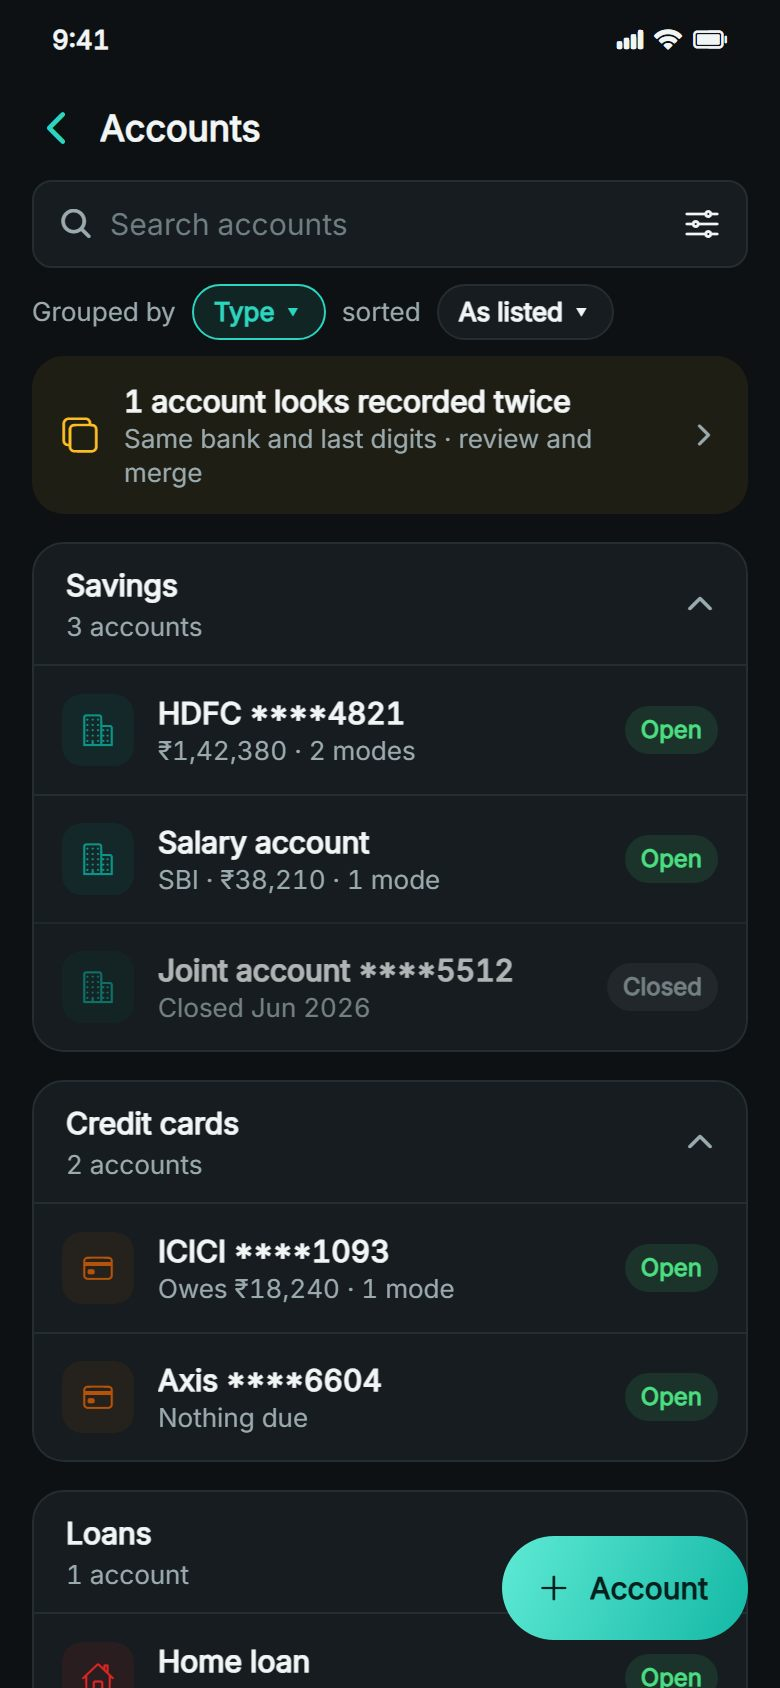
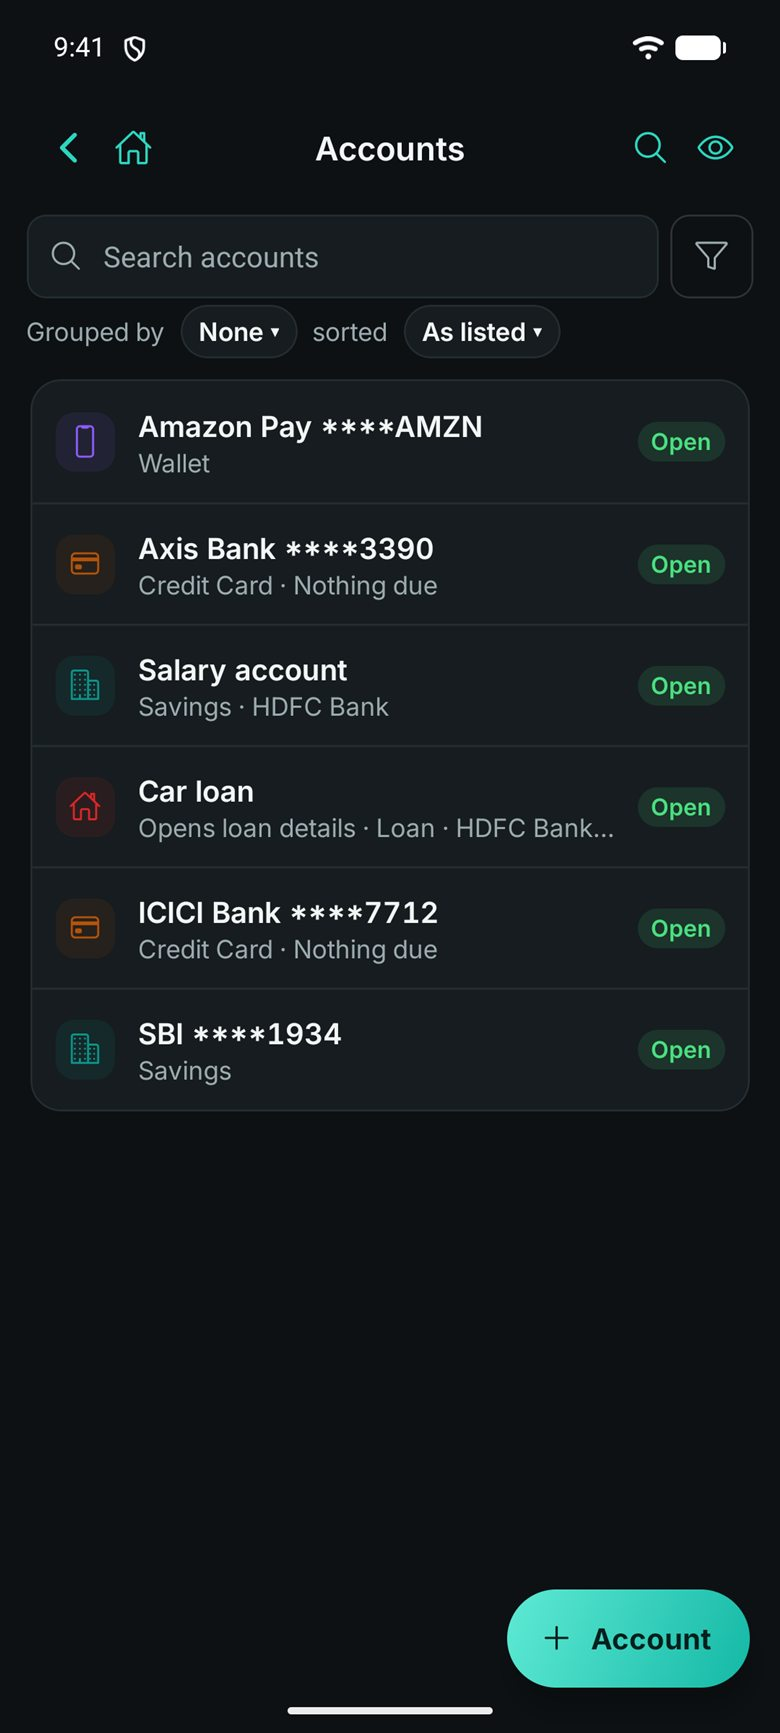
feat(site): real app screenshots from the demo build on the emulator
Budget on Features and the 4.52 gallery (transactions, ledger, accounts, categories) now show real
screens with the fictional sample data. Net worth and Vault go back to their mockups: the sample
data has no Vault and a negative net worth.

diff --git a/docs/features.html b/docs/features.html
@@ -202,7 +202,7 @@
     </div>
     <div class="grp-ph reveal">
       <div class="phone" role="img" aria-label="Budget: what's left to spend this month, how it splits between EMIs, unavoidable and discretionary, and a This month sum that adds up">
-        <div class="phone-scr"><img class="p-shot" src="/img/screens/budget.jpg" alt="" loading="lazy" decoding="async" width="780" height="1688"></div>
+        <div class="phone-scr"><img class="p-shot" src="/img/screens/budget.jpg" alt="" loading="lazy" decoding="async" width="780" height="1733"></div>
       </div>
     </div>
   </div>
@@ -226,8 +226,34 @@
       </div>
     </div>
     <div class="grp-ph reveal">
-      <div class="phone" role="img" aria-label="Net worth over the financial year: what you own and what you owe, each with its share">
-        <div class="phone-scr"><img class="p-shot" src="/img/screens/net-worth.jpg" alt="" loading="lazy" decoding="async" width="780" height="1688"></div>
+      <div class="phone" role="img" aria-label="Balance sheet with a net worth line chart rising over the financial year">
+        <div class="phone-scr">
+          <div class="pscr on">
+            <div class="p-stat"><span>10:24</span><span class="p-stat-i"><svg viewBox="0 0 17 12" fill="currentColor"><rect y="8.5" width="3" height="3.5" rx=".7"/><rect x="4.7" y="6" width="3" height="6" rx=".7"/><rect x="9.4" y="3" width="3" height="9" rx=".7"/><rect x="14" width="3" height="12" rx=".7"/></svg><svg viewBox="0 0 16 12" fill="none" stroke="currentColor" stroke-width="1.7" stroke-linecap="round"><path d="M1.2 4.4a10.2 10.2 0 0113.6 0"/><path d="M3.9 7.2a6.2 6.2 0 018.2 0"/><circle cx="8" cy="10.2" r=".95" fill="currentColor" stroke="none"/></svg><svg viewBox="0 0 25 12" fill="none"><rect x=".7" y=".7" width="21" height="10.6" rx="3.2" stroke="currentColor" stroke-width="1.3" opacity=".55"/><rect x="2.5" y="2.5" width="14" height="7" rx="1.8" fill="currentColor"/><path d="M23.4 4.3v3.4" stroke="currentColor" stroke-width="1.7" stroke-linecap="round" opacity=".55"/></svg></span></div>
+            <div class="p-hdr"><div style="flex:1"><div class="p-hdr-t">Balance Sheet</div><div class="p-hdr-s">Net worth</div></div></div>
+            <div class="p-body">
+              <div class="p-card">
+                <div class="p-lbl">Net worth · today</div>
+                <div class="p-big p-grn" style="margin-top:.2em">₹38,42,600</div>
+              </div>
+              <div class="p-card">
+                <div class="p-lbl">Net worth over time</div>
+                <div class="p-grn" style="font-weight:700;margin-top:.3em">▲ ₹3.2L <span class="p-mut" style="font-weight:400">since 1 Apr</span></div>
+                <div class="p-pills" style="padding:.6em 0 .2em"><span class="p-pill on">This FY</span><span class="p-pill">1Y</span><span class="p-pill">3Y</span><span class="p-pill">All</span></div>
+                <svg viewBox="0 0 200 70" style="width:100%;height:auto;display:block;margin-top:.3em" aria-hidden="true">
+                  <defs><linearGradient id="nwg" x1="0" y1="0" x2="0" y2="1"><stop offset="0" stop-color="#34D399" stop-opacity=".3"/><stop offset="1" stop-color="#34D399" stop-opacity="0"/></linearGradient></defs>
+                  <path d="M4 58 L32 52 L60 54 L88 41 L116 36 L144 30 L172 21 L196 12 L196 70 L4 70Z" fill="url(#nwg)"/>
+                  <path d="M4 58 L32 52 L60 54 L88 41 L116 36 L144 30 L172 21 L196 12" fill="none" stroke="#34D399" stroke-width="2.4" stroke-linejoin="round" stroke-linecap="round"/>
+                  <circle cx="196" cy="12" r="3.4" fill="#34D399"/>
+                </svg>
+                <div class="p-hr"></div>
+                <div class="p-r p-sm"><span class="p-mut">Saved &amp; invested</span><span class="p-num p-grn">+₹2.1L</span></div>
+                <div class="p-r p-sm" style="margin-top:.25em"><span class="p-mut">Market gains</span><span class="p-num p-grn">+₹78K</span></div>
+                <div class="p-r p-sm" style="margin-top:.25em"><span class="p-mut">Loans paid down</span><span class="p-num p-grn">+₹41K</span></div>
+              </div>
+            </div>
+          </div>
+        </div>
       </div>
     </div>
   </div>
@@ -249,8 +275,32 @@
       </div>
     </div>
     <div class="grp-ph reveal">
-      <div class="phone" role="img" aria-label="The Vault, grouped by type, with a thumb rail on the right edge to jump between types">
-        <div class="phone-scr"><img class="p-shot" src="/img/screens/vault.jpg" alt="" loading="lazy" decoding="async" width="780" height="1688"></div>
+      <div class="phone" role="img" aria-label="Password Vault listing banking and broker logins, locked behind the fingerprint">
+        <div class="phone-scr">
+          <div class="pscr on">
+            <div class="p-stat"><span>10:24</span><span class="p-stat-i"><svg viewBox="0 0 17 12" fill="currentColor"><rect y="8.5" width="3" height="3.5" rx=".7"/><rect x="4.7" y="6" width="3" height="6" rx=".7"/><rect x="9.4" y="3" width="3" height="9" rx=".7"/><rect x="14" width="3" height="12" rx=".7"/></svg><svg viewBox="0 0 16 12" fill="none" stroke="currentColor" stroke-width="1.7" stroke-linecap="round"><path d="M1.2 4.4a10.2 10.2 0 0113.6 0"/><path d="M3.9 7.2a6.2 6.2 0 018.2 0"/><circle cx="8" cy="10.2" r=".95" fill="currentColor" stroke="none"/></svg><svg viewBox="0 0 25 12" fill="none"><rect x=".7" y=".7" width="21" height="10.6" rx="3.2" stroke="currentColor" stroke-width="1.3" opacity=".55"/><rect x="2.5" y="2.5" width="14" height="7" rx="1.8" fill="currentColor"/><path d="M23.4 4.3v3.4" stroke="currentColor" stroke-width="1.7" stroke-linecap="round" opacity=".55"/></svg></span></div>
+            <div class="p-hdr"><div style="flex:1"><div class="p-hdr-t">Vault</div><div class="p-hdr-s">12 entries · locked with fingerprint</div></div></div>
+            <div class="p-body">
+              <div class="p-card" style="padding:.7em .8em">
+                <div class="p-li"><div class="p-ic" style="background:rgba(45,212,191,.15);color:var(--pteal)"><svg viewBox="0 0 24 24" fill="none" stroke="currentColor" stroke-width="2"><path d="M3 10h18M5 10v8M19 10v8M12 3l9 5H3z"/></svg></div>
+                <div style="flex:1"><div style="font-weight:600">HDFC NetBanking</div><div class="p-sm p-mut">Customer ID · linked to Savings ••4821</div></div></div>
+              </div>
+              <div class="p-card" style="padding:.7em .8em">
+                <div class="p-li"><div class="p-ic" style="background:rgba(251,191,36,.15);color:var(--pamber)"><svg viewBox="0 0 24 24" fill="none" stroke="currentColor" stroke-width="2"><path d="M3 17l6-6 4 4 8-8"/></svg></div>
+                <div style="flex:1"><div style="font-weight:600">Zerodha Kite</div><div class="p-sm p-mut">TOTP <span class="p-tl" style="font-weight:700;letter-spacing:.08em">482 913</span> · 18s</div></div></div>
+              </div>
+              <div class="p-card" style="padding:.7em .8em">
+                <div class="p-li"><div class="p-ic" style="background:rgba(248,113,113,.15);color:var(--pred)"><svg viewBox="0 0 24 24" fill="none" stroke="currentColor" stroke-width="2"><rect x="3" y="6" width="18" height="12" rx="2"/><path d="M3 10h18"/></svg></div>
+                <div style="flex:1"><div style="font-weight:600">Axis credit card</div><div class="p-sm p-mut">Statement password saved</div></div></div>
+              </div>
+              <div class="p-card" style="padding:.7em .8em">
+                <div class="p-li"><div class="p-ic" style="background:rgba(52,211,153,.15);color:var(--pgreen)"><svg viewBox="0 0 24 24" fill="none" stroke="currentColor" stroke-width="2"><circle cx="12" cy="12" r="9"/><path d="M12 7v5l3 2"/></svg></div>
+                <div style="flex:1"><div style="font-weight:600">Netflix</div><div class="p-sm p-mut">Renews 28 Oct · ₹649</div></div></div>
+              </div>
+              <div class="p-sm p-mut" style="text-align:center;margin-top:.4em">Encrypted on this phone · in your backup</div>
+            </div>
+          </div>
+        </div>
       </div>
     </div>
   </div>
@@ -312,25 +362,25 @@
     <div class="scr-g reveal">
       <figure class="scr-it">
         <div class="phone" role="img" aria-label="Transactions: each month in one line with its money in and out, and the month's rows under it">
-        <div class="phone-scr"><img class="p-shot" src="/img/screens/transactions.jpg" alt="" loading="lazy" decoding="async" width="780" height="1688"></div>
+        <div class="phone-scr"><img class="p-shot" src="/img/screens/transactions.jpg" alt="" loading="lazy" decoding="async" width="780" height="1733"></div>
       </div>
         <figcaption><b>Months at a glance.</b> Money in and out per month, in lakh and crore or million and billion, your choice.</figcaption>
       </figure>
       <figure class="scr-it">
         <div class="phone" role="img" aria-label="An account ledger: a statement that adds up from the opening balance, and the balance after every transaction">
-        <div class="phone-scr"><img class="p-shot" src="/img/screens/ledger.jpg" alt="" loading="lazy" decoding="async" width="780" height="1688"></div>
+        <div class="phone-scr"><img class="p-shot" src="/img/screens/ledger.jpg" alt="" loading="lazy" decoding="async" width="780" height="1733"></div>
       </div>
         <figcaption><b>Every rupee accounted for.</b> Each account's month adds up, with the balance after every transaction.</figcaption>
       </figure>
       <figure class="scr-it">
         <div class="phone" role="img" aria-label="Accounts grouped by type, each showing its balance, what is owed on a card or what is left on a loan">
-        <div class="phone-scr"><img class="p-shot" src="/img/screens/accounts.jpg" alt="" loading="lazy" decoding="async" width="780" height="1688"></div>
+        <div class="phone-scr"><img class="p-shot" src="/img/screens/accounts.jpg" alt="" loading="lazy" decoding="async" width="780" height="1733"></div>
       </div>
         <figcaption><b>All your accounts.</b> Balances, card dues and loans left, grouped the way you like.</figcaption>
       </figure>
       <figure class="scr-it">
         <div class="phone" role="img" aria-label="Categories as cards, each with how many transactions it has, an on/off switch and its sub-categories">
-        <div class="phone-scr"><img class="p-shot" src="/img/screens/categories.jpg" alt="" loading="lazy" decoding="async" width="780" height="1688"></div>
+        <div class="phone-scr"><img class="p-shot" src="/img/screens/categories.jpg" alt="" loading="lazy" decoding="async" width="780" height="1733"></div>
       </div>
         <figcaption><b>Categories your way.</b> Sub-categories, counts and a switch to hide the ones you don't use.</figcaption>
       </figure>

diff --git a/docs/index.html b/docs/index.html
@@ -1195,25 +1195,25 @@
     <div class="scr-g reveal">
       <figure class="scr-it">
         <div class="phone" role="img" aria-label="Transactions: each month in one line with its money in and out, and the month's rows under it">
-        <div class="phone-scr"><img class="p-shot" src="/img/screens/transactions.jpg" alt="" loading="lazy" decoding="async" width="780" height="1688"></div>
+        <div class="phone-scr"><img class="p-shot" src="/img/screens/transactions.jpg" alt="" loading="lazy" decoding="async" width="780" height="1733"></div>
       </div>
         <figcaption><b>Months at a glance.</b> Money in and out per month, in lakh and crore or million and billion, your choice.</figcaption>
       </figure>
       <figure class="scr-it">
         <div class="phone" role="img" aria-label="An account ledger: a statement that adds up from the opening balance, and the balance after every transaction">
-        <div class="phone-scr"><img class="p-shot" src="/img/screens/ledger.jpg" alt="" loading="lazy" decoding="async" width="780" height="1688"></div>
+        <div class="phone-scr"><img class="p-shot" src="/img/screens/ledger.jpg" alt="" loading="lazy" decoding="async" width="780" height="1733"></div>
       </div>
         <figcaption><b>Every rupee accounted for.</b> Each account's month adds up, with the balance after every transaction.</figcaption>
       </figure>
       <figure class="scr-it">
         <div class="phone" role="img" aria-label="Accounts grouped by type, each showing its balance, what is owed on a card or what is left on a loan">
-        <div class="phone-scr"><img class="p-shot" src="/img/screens/accounts.jpg" alt="" loading="lazy" decoding="async" width="780" height="1688"></div>
+        <div class="phone-scr"><img class="p-shot" src="/img/screens/accounts.jpg" alt="" loading="lazy" decoding="async" width="780" height="1733"></div>
       </div>
         <figcaption><b>All your accounts.</b> Balances, card dues and loans left, grouped the way you like.</figcaption>
       </figure>
       <figure class="scr-it">
         <div class="phone" role="img" aria-label="Categories as cards, each with how many transactions it has, an on/off switch and its sub-categories">
-        <div class="phone-scr"><img class="p-shot" src="/img/screens/categories.jpg" alt="" loading="lazy" decoding="async" width="780" height="1688"></div>
+        <div class="phone-scr"><img class="p-shot" src="/img/screens/categories.jpg" alt="" loading="lazy" decoding="async" width="780" height="1733"></div>
       </div>
         <figcaption><b>Categories your way.</b> Sub-categories, counts and a switch to hide the ones you don't use.</figcaption>
       </figure>
